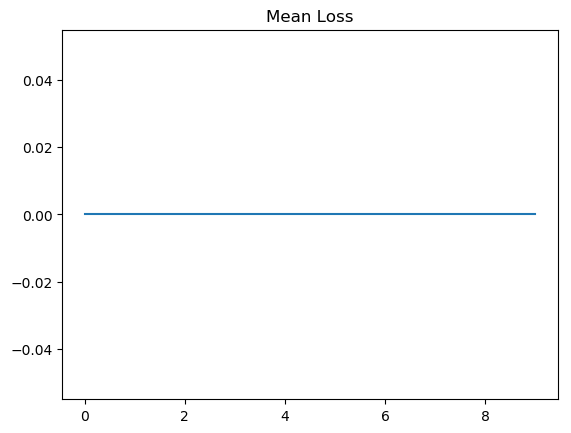
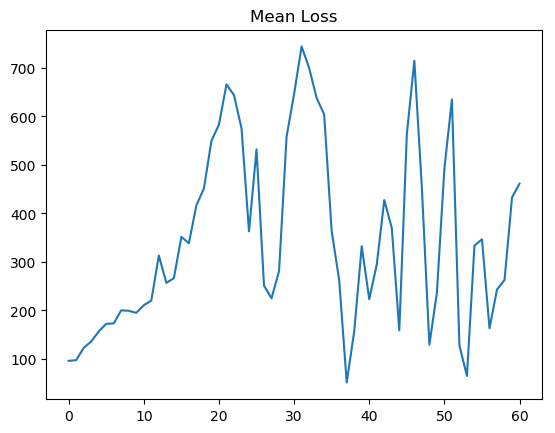
Added PolicyGradient implementation

diff --git a/CartPole-PolicyGradient.py b/CartPole-PolicyGradient.py
@@ -1,4 +1,4 @@
-import torch, numpy, gym, random, time
+import torch, numpy, gym, time
 import torch.nn as nn
 import torch.optim as opt
 from torch.distributions import Categorical
@@ -7,39 +7,60 @@ import matplotlib.pyplot as plt
 env = gym.make("CartPole-v0")
 action_space = env.action_space.n
 observation_space = env.observation_space.shape[0]
-network = nn.Sequential(nn.Linear(observation_space,24),nn.ReLU(),nn.Linear(24,48),nn.ReLU(),nn.Linear(48,action_space),nn.Softmax(dim=0))
+network = nn.Sequential(nn.Linear(observation_space,24),nn.ReLU(),nn.Linear(24,48),nn.ReLU(),nn.Linear(48,action_space),nn.Softmax(dim=-1))
 criterion = nn.MSELoss()
 optimizer = opt.SGD(network.parameters(),lr=0.00025)
 
 epochs = 30000
-max_epsilon = 1.0
-min_epsilon = 0.0
-percent = 0.2
-decay_rate = 1/(epochs*percent)
-epsilon = max_epsilon
-discount_factor = 0.99
+discount_factor = 0.9
+log_actions = torch.tensor([])
+episode_rewards = []
+eps =numpy.finfo(float).eps
 
 def preprocess(state):
     return torch.tensor(state).float()
 
 def next_action(state):
+    global log_actions
+
     distribution = network(state)
     c = Categorical(distribution)
     action = c.sample()
+    log = torch.tensor([0.0]).add(c.log_prob(action))
+
+    if len(log_actions.data)==0:
+        log_actions = log
+    else:
+        log_actions = torch.cat([log_actions,log])
     return action.item()
 
 def select_action(state):
     out = network(state)
     return out.max(0)
 
-def decay():
-    return max(min_epsilon,epsilon-decay_rate)
+def discount_rewards(rewards):
+    discounted_rewards = []
+    run = 0
 
-def learn(out,target):
+    for i in reversed(rewards):
+        run = i + run*discount_factor
+        discounted_rewards.insert(0, run)
+    return discounted_rewards
+
+def update_policy():
+    global episode_rewards, log_actions
+
+    discounted_rewards = discount_rewards(episode_rewards)
+    discounted_rewards = torch.tensor(discounted_rewards)
+    #discounted_rewards = (discounted_rewards - discounted_rewards.mean()) / (discounted_rewards.std() + eps)
+    loss = torch.sum(discounted_rewards*log_actions*-1,-1)
+
     optimizer.zero_grad()
-    loss = criterion(out,target)
     loss.backward()
     optimizer.step()
+
+    episode_rewards=[]
+    log_actions = torch.tensor([])
     return loss
 
 print("---------TRAINING---------")
@@ -61,19 +82,20 @@ for e in range(epochs):
 
             runreward+=reward
             state = new_state
+            episode_rewards.append(reward)
             if done or frames%200 == 0:
                 #print("E: "+str(e)+" F: "+str(frames)+" R: "+str(runreward)+" Eps: "+str(epsilon))
                 mr += runreward
-                loss += 0#l/frames
+                loss += update_policy()
                 break
-        epsilon = decay()
+
         if (e+1)%100==0:
             mean = mr/100
             rewardmeans.append(float(mean))
             mr = 0
             lossmeans.append(float(loss / 100))
             loss = 0
-            print(str(e + 1) + " M: " + str(mean) + " E: " + str(epsilon))
+            print(str(e + 1) + " M: " + str(mean))
             if mean==200.0:
                 break
 
@@ -101,9 +123,9 @@ print("---------PLOTTING---------")
 plt.figure(0)
 plt.plot(lossmeans)
 plt.title("Mean Loss")
-plt.savefig('./Plots/PolicyGradient/meanloss.png',bbox_inches='tight')
+#plt.savefig('./Plots/PolicyGradient/meanloss.png',bbox_inches='tight')
 plt.figure(1)
 plt.plot(rewardmeans,color="orange")
 plt.title("Mean Reward")
-plt.savefig('./Plots/PolicyGradient/meanreward.png',bbox_inches='tight')
+#plt.savefig('./Plots/PolicyGradient/meanreward.png',bbox_inches='tight')
 plt.show()

diff --git a/ReadMe.md b/ReadMe.md
@@ -2,10 +2,10 @@
 Aims to solve CartPole with various RL-Techniques at an intermediate level.
 
 ## Deterministic
-- [X] Q-Tables
-- [X] Deep Q Learning(Fixed Targets, Memory, Double-Q)
-- [ ] Policy Gradient
-- [ ] Actor Critic
+- [X] [ Q-Tables ](#qtables)
+- [X] [ Deep Q Learning(Fixed Targets, Memory, Double-Q) ](#qlearning)
+- [X] [ Policy Gradient ](#policygradient)
+- [ ] [ Actor Critic ](#actorcritic)
 
 Deep Q-Learning techniques will be mixed and tested.
 
@@ -13,6 +13,7 @@ Deep Q-Learning techniques will be mixed and tested.
 X-Axis = Epochs/100
 Q = Standard Q-Learning, T = Fixed Targets, M = Memory, DQ = Double-Q
 
+<a name="qtables"></a>
 ## Q-Tables - Input Discretized
 Since discretization leads to reduced accuracy this problem cant be completely solved.
 Finding a sweetspot between accuracy-tradeoff and value-conservation might lead to a solution.
@@ -24,6 +25,7 @@ Another way of solving this problem could be by broadening the observation-space
   <img src="./Plots/CartPole-QTable/meanqvalue.png" width="425" />
 </p>
 
+<a name="qlearning"></a>
 ## Q-Learning
 <p float="left">
   <img src="./Plots/CartPole-Q/meanreward.png" width="425" />
@@ -74,12 +76,21 @@ Can be solve by using a Learning-Rate scheduler.
   <img src="./Plots/CartPole-MDQ/meanqvalue.png" width="425" />
 </p>
 
+<a name="policygradient"></a>
 ## PolicyGradient
 <p float="left">
   <img src="./Plots/PolicyGradient/meanreward.png" width="425" />
   <img src="./Plots/PolicyGradient/meanloss.png" width="425" /> 
 </p>
 
+### Normalized Discounted Rewards(also smaller Network and higher Learning Rate)
+
+<p float="left">  
+  <img src="./Plots/PolicyGradient/normmeanreward.png" width="425" />
+  <img src="./Plots/PolicyGradient/normmeanloss.png" width="425" /> 
+</p>
+
+<a name="actorcritic"></a>
 ## Actor Critic
 <p float="left">
   <img src="./Plots/AC/meanreward.png" width="425" />
